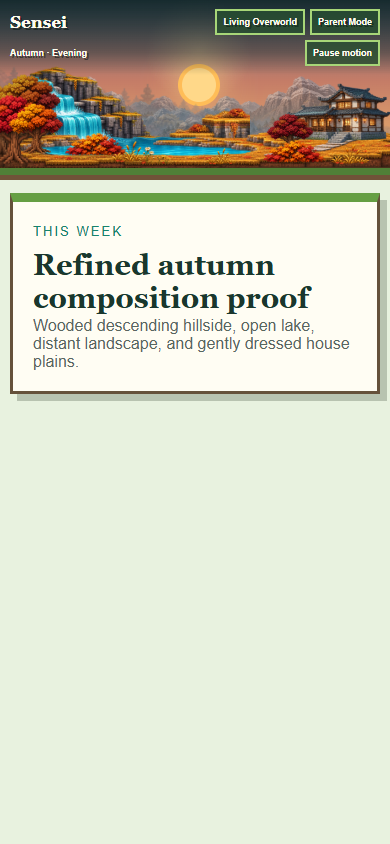
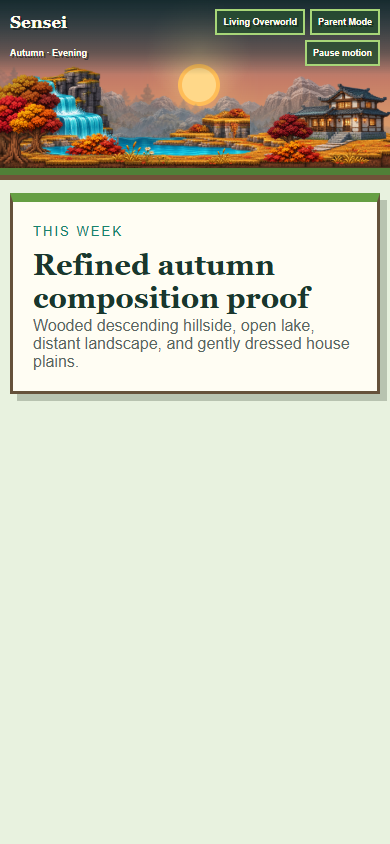
art: finalize mirrored autumn waterfall proof

Changed region(s): [[0.0923, 0.0616, 0.4923, 0.1848]]

diff --git a/docs/prototypes/living-overworld-autumn-rich.html b/docs/prototypes/living-overworld-autumn-rich.html
@@ -19,11 +19,13 @@
     .forest { z-index: 3; left: 43%; bottom: -4px; width: 1260px; translate: -50%; opacity: .5; filter: saturate(.72) brightness(.75); }
     .ground-band { position: absolute; z-index: 3; left: 0; right: 0; bottom: 0; height: 38px; background: linear-gradient(#896329 0 18%, #6f4d2a 19% 34%, #4c351f 35%); }
     .hillside { z-index: 4; left: calc(50% - 1260px); bottom: -12px; width: 920px; }
-    .lake-extension { z-index: 5; left: calc(50% - 310px); bottom: -2px; width: 650px; clip-path: inset(0 0 0 42%); }
-    .waterfall-system { position: absolute; z-index: 6; left: calc(50% - 610px); bottom: -2px; width: 650px; aspect-ratio: 2172 / 724; pointer-events: none; }
+    .lake-extension { z-index: 5; bottom: -2px; width: 650px; clip-path: inset(0 0 0 42%); }
+    .lake-extension.bridge { left: calc(50% - 680px); }
+    .lake-extension.main { left: calc(50% - 310px); }
+    .waterfall-system { position: absolute; z-index: 6; left: calc(50% - 1010px); bottom: -2px; width: 650px; aspect-ratio: 2172 / 724; pointer-events: none; }
     .waterfall-system img { position: absolute; inset: 0; width: 100%; height: 100%; object-fit: contain; }
-    .waterfall-system .outcrop { z-index: 1; }
-    .waterfall-system .water { z-index: 2; }
+    .waterfall-system .outcrop { z-index: 1; transform: scaleX(-1); }
+    .waterfall-system .water { z-index: 2; transform: translateX(61%); clip-path: inset(0 65% 0 0); }
     .meadow { z-index: 6; bottom: -20px; width: 1100px; }
     .meadow.left { right: calc(50% + 500px); }
     .meadow.right { left: calc(50% + 500px); transform: scaleX(-1); }
@@ -36,8 +38,9 @@
     @media (max-width: 1300px) { .scene-object.wide-only { display: none; } }
     @media (min-width: 701px) and (max-width: 1300px) {
       .hillside { left: -300px; }
-      .waterfall-system { left: 0; }
-      .lake-extension { left: 300px; }
+      .waterfall-system { left: -200px; }
+      .lake-extension.bridge { left: -20px; }
+      .lake-extension.main { left: 300px; }
     }
     .header { position: absolute; z-index: 20; inset: 0 0 auto; min-height: 86px; padding: 12px max(18px, calc((100vw - 1280px) / 2)); background: linear-gradient(180deg, rgba(9,29,27,.82), rgba(9,29,27,.38) 70%, transparent); text-shadow: 2px 2px rgba(12,26,20,.55); }
     .header-main, .header-status { display: flex; align-items: center; gap: 10px; }
@@ -59,8 +62,10 @@
       .forest { left: 42%; width: 500px; bottom: -1px; opacity: .34; }
       .ground-band { height: 20px; }
       .hillside { left: -220px; bottom: -3px; width: 470px; }
-      .lake-extension { left: 120px; bottom: 2px; width: 330px; }
-      .waterfall-system { left: 0; bottom: 2px; width: 330px; }
+      .lake-extension { bottom: 2px; width: 330px; }
+      .lake-extension.bridge { left: -20px; }
+      .lake-extension.main { left: 120px; }
+      .waterfall-system { left: -200px; bottom: 2px; width: 330px; }
       .meadow { display: none; }
       .ground { width: 435px; bottom: -5px; }
       .house { right: -8px; bottom: -2px; width: 365px; }
@@ -89,7 +94,8 @@
     <img class="layer forest" src="../../public/assets/living-overworld/autumn-rich-proof/distant-forest.png" alt="">
     <div class="ground-band"></div>
     <img class="layer hillside" src="../../public/assets/living-overworld/autumn-modular/terrain-left.png" alt="">
-    <img class="layer lake-extension" src="../../public/assets/living-overworld/autumn-structural/water-connected.png" alt="">
+    <img class="layer lake-extension bridge" src="../../public/assets/living-overworld/autumn-structural/water-connected.png" alt="">
+    <img class="layer lake-extension main" src="../../public/assets/living-overworld/autumn-structural/water-connected.png" alt="">
     <div class="waterfall-system" data-geometry="aligned-water-and-outcrop">
       <img class="outcrop" src="../../public/assets/living-overworld/autumn-structural/waterfall-outcrop.png" alt="">
       <img class="water" src="../../public/assets/living-overworld/autumn-structural/water-connected.png" alt="">

diff --git a/docs/LIVING_OVERWORLD_AUTUMN_FINAL_WATERFALL_HANDOFF.md b/docs/LIVING_OVERWORLD_AUTUMN_FINAL_WATERFALL_HANDOFF.md
@@ -1,0 +1,65 @@
+# Living Overworld — Final Waterfall Correction
+
+Status: isolated corrected prototype ready for Product Owner visual review. Runtime integration remains unauthorized.
+
+## Locked composition
+
+The mountain groups, central valley, sun position, house, path, right-side plains, left woodland placements, banner dimensions, and responsive layout were not edited.
+
+Pixel comparison confines rendered changes to the waterfall/lake assembly region:
+
+- Desktop changed bounds: `x 96–943`, `y 84–284` in the 1920×900 proof.
+- Mobile changed bounds: `x 0–278`, `y 65–162` in the 390×844 proof.
+
+The desktop sun begins beyond the changed horizontal bounds, and the house/right plains remain outside them.
+
+## Mirrored-outcrop result
+
+The mirror-only experiment was rejected because it left the unmodified cascades suspended over the woodland while moving the supporting rock to the center.
+
+The accepted proof keeps the outcrop horizontally mirrored but:
+
+- Restores the complete assembly to its approved left-side position.
+- Preserves the waterfall asset's vertical position, scale, and upper elevation.
+- Uses a cascade-only presentation of the existing water asset, shifted 61% horizontally so the three falls sit on the mirrored terraces.
+- Keeps the water in front of cliff faces while the authored ledges remain visible.
+- Uses two lake-only crops from the same existing water asset: a short bridge from the final foam and the original central lake overlap.
+- Adds no artwork and does not change any source image.
+
+## Before and after evidence
+
+Desktop:
+
+- [Before — 1920px](assets/screenshots/living-overworld-autumn-waterfall-before-desktop-1920.png)
+- [After — 1920px](assets/screenshots/living-overworld-autumn-waterfall-after-desktop-1920.png)
+
+Mobile:
+
+- [Before — 390px](assets/screenshots/living-overworld-autumn-waterfall-before-mobile-390.png)
+- [After — 390px](assets/screenshots/living-overworld-autumn-waterfall-after-mobile-390.png)
+
+Detail:
+
+- [Final waterfall close-up](assets/screenshots/living-overworld-autumn-rich-waterfall-closeup.png)
+
+## Focused verification
+
+The proof capture validates at 390px, 1100px, 1920px, and 32:9:
+
+- The outcrop is horizontally mirrored.
+- The cascade layer retains the same dimensions and vertical anchor as the rock layer.
+- The expected 61% cascade alignment is applied.
+- The upper waterfall elevation is unchanged.
+- All assets load.
+- Visible environmental-object bases remain within the scenic frame.
+- No tree bases occupy the open-lake zone.
+- Celestial centering, scene height, and horizontal-overflow checks still pass.
+- No browser console or page errors occur.
+
+## Limitation
+
+The correction uses clipped presentations of one existing composite water asset because new artwork was prohibited. The result is visually connected and deterministic, but future runtime integration must preserve the exact clipping and layering rules.
+
+## Continuation point
+
+Await Product Owner visual acceptance. Do not modify other scenery. If approved, a separately authorized runtime-integration task can transfer only this waterfall/outcrop presentation into the Living Overworld component and run the full application regression suite.
